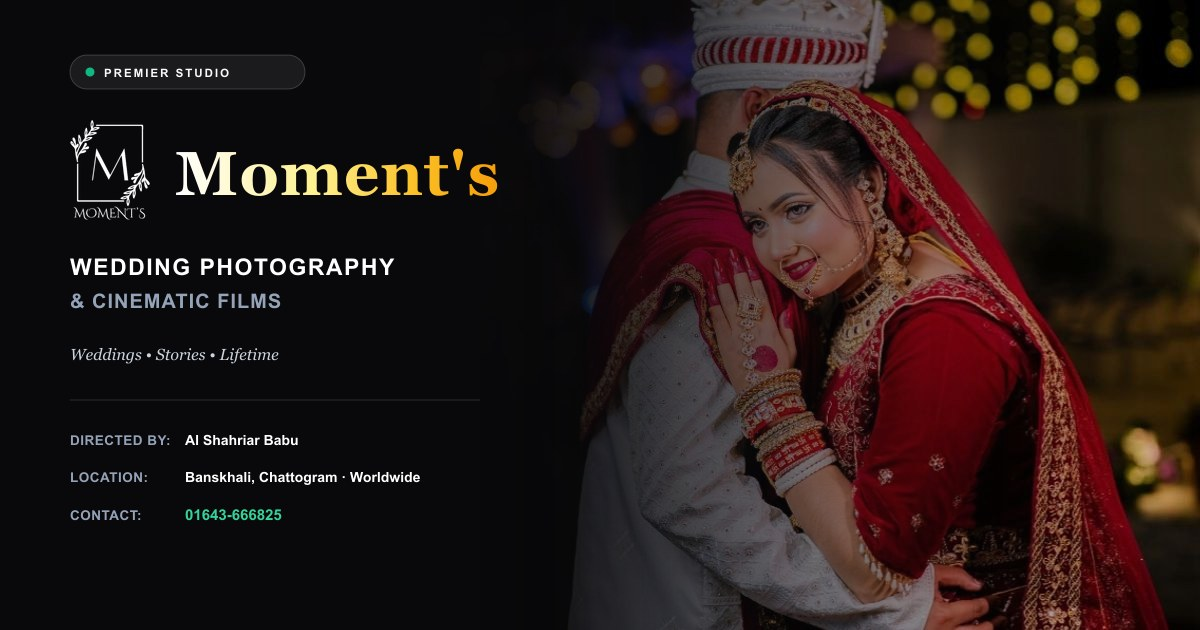
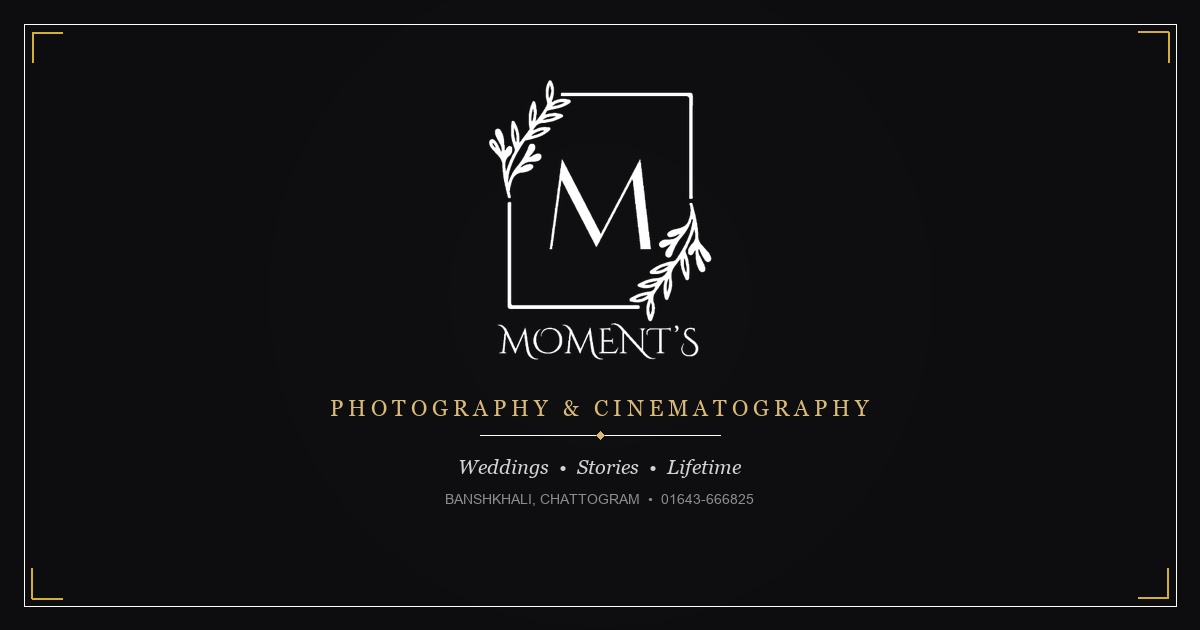
upd

diff --git a/src/app/layout.tsx b/src/app/layout.tsx
@@ -24,7 +24,11 @@ const cormorant = Cormorant_Garamond({
   display: "swap",
 });
 
-const SITE_URL = "https://momentsphotography.com";
+const SITE_URL =
+  process.env.NEXT_PUBLIC_SITE_URL ||
+  process.env.URL ||
+  process.env.DEPLOY_PRIME_URL ||
+  "https://moments-by-babu.netlify.app";
 
 export const metadata: Metadata = {
   metadataBase: new URL(SITE_URL),
@@ -63,12 +67,11 @@ export const metadata: Metadata = {
   icons: {
     icon: [
       { url: "/favicon.ico?v=4", sizes: "any" },
-      { url: "/icon.png?v=4", type: "image/png" },
       { url: "/logo.png?v=4", type: "image/png" }
     ],
     shortcut: "/favicon.ico?v=4",
     apple: [
-      { url: "/apple-icon.png?v=4", sizes: "180x180", type: "image/png" }
+      { url: "/logo.png?v=4", sizes: "180x180", type: "image/png" }
     ],
   },
   openGraph: {
@@ -85,19 +88,19 @@ export const metadata: Metadata = {
         width: 1200,
         height: 630,
         type: "image/jpeg",
-        alt: "Moment's Photography & Cinematography Studio Banner with Logo and Signature Wedding Portrait",
+        alt: "Moment's Photography & Cinematography Studio Logo Banner",
       },
       {
         url: "/og-square.jpg",
-        width: 600,
-        height: 600,
+        width: 800,
+        height: 800,
         type: "image/jpeg",
-        alt: "Moment's Photography Logo and Couple Portrait",
+        alt: "Moment's Photography Official Brand Logo",
       },
       {
         url: "/logo.png",
-        width: 800,
-        height: 800,
+        width: 335,
+        height: 417,
         type: "image/png",
         alt: "Moment's Official Brand Logo",
       }

diff --git a/src/app/sitemap.ts b/src/app/sitemap.ts
@@ -1,7 +1,10 @@
 import { MetadataRoute } from "next";
 
 export default function sitemap(): MetadataRoute.Sitemap {
-  const baseUrl = "https://momentsphotography.com";
+  const baseUrl =
+    process.env.NEXT_PUBLIC_SITE_URL ||
+    process.env.URL ||
+    "https://moments-by-babu.netlify.app";
   const now = new Date();
 
   return [

diff --git a/src/app/robots.ts b/src/app/robots.ts
@@ -6,6 +6,6 @@ export default function robots(): MetadataRoute.Robots {
       userAgent: "*",
       allow: "/",
     },
-    sitemap: "https://momentsphotography.com/sitemap.xml",
+    sitemap: "https://moments-by-babu.netlify.app/sitemap.xml",
   };
 }

diff --git a/scratch/generate_og_images.py b/scratch/generate_og_images.py
@@ -1,0 +1,129 @@
+import os
+from PIL import Image, ImageDraw, ImageFont, ImageFilter
+
+def create_og_banner(output_path, is_square=False):
+    width, height = (800, 800) if is_square else (1200, 630)
+    
+    # Base luxury dark gradient background
+    base = Image.new("RGBA", (width, height), (13, 13, 16, 255))
+    
+    # Add subtle warm radial glow in the center
+    glow = Image.new("RGBA", (width, height), (0, 0, 0, 0))
+    glow_draw = ImageDraw.Draw(glow)
+    center_x, center_y = width // 2, height // 2 - (20 if not is_square else 30)
+    max_radius = int(min(width, height) * 0.7)
+    
+    # Draw radial gradient rings
+    for r in range(max_radius, 0, -10):
+        alpha = int(35 * (1 - r / max_radius))
+        glow_draw.ellipse(
+            [center_x - r, center_y - r, center_x + r, center_y + r],
+            fill=(30, 26, 22, alpha)
+        )
+    
+    base = Image.alpha_composite(base, glow)
+    draw = ImageDraw.Draw(base)
+    
+    # Subtle elegant border
+    inset = 24 if not is_square else 28
+    draw.rectangle(
+        [inset, inset, width - inset, height - inset],
+        outline=(255, 255, 255, 22),
+        width=1
+    )
+    
+    # Inner gold corner accents
+    corner_len = 30
+    gold_color = (212, 175, 55, 140)
+    c_inset = inset + 8
+    # Top Left
+    draw.line([(c_inset, c_inset), (c_inset + corner_len, c_inset)], fill=gold_color, width=2)
+    draw.line([(c_inset, c_inset), (c_inset, c_inset + corner_len)], fill=gold_color, width=2)
+    # Top Right
+    draw.line([(width - c_inset, c_inset), (width - c_inset - corner_len, c_inset)], fill=gold_color, width=2)
+    draw.line([(width - c_inset, c_inset), (width - c_inset, c_inset + corner_len)], fill=gold_color, width=2)
+    # Bottom Left
+    draw.line([(c_inset, height - c_inset), (c_inset + corner_len, height - c_inset)], fill=gold_color, width=2)
+    draw.line([(c_inset, height - c_inset), (c_inset, height - c_inset - corner_len)], fill=gold_color, width=2)
+    # Bottom Right
+    draw.line([(width - c_inset, height - c_inset), (width - c_inset - corner_len, height - c_inset)], fill=gold_color, width=2)
+    draw.line([(width - c_inset, height - c_inset), (width - c_inset, height - c_inset - corner_len)], fill=gold_color, width=2)
+    
+    # Load white logo
+    logo = Image.open("public/logo-white.png").convert("RGBA")
+    
+    # Scale logo appropriately
+    if is_square:
+        target_h = 360
+    else:
+        target_h = 280
+        
+    aspect = logo.width / logo.height
+    target_w = int(target_h * aspect)
+    logo_resized = logo.resize((target_w, target_h), Image.Resampling.LANCZOS)
+    
+    # Paste logo in upper-center
+    if is_square:
+        logo_y = 120
+    else:
+        logo_y = 80
+        
+    logo_x = (width - target_w) // 2
+    base.paste(logo_resized, (logo_x, logo_y), logo_resized)
+    
+    # Load fonts
+    try:
+        font_sub = ImageFont.truetype("C:/Windows/Fonts/georgia.ttf", 22 if not is_square else 26)
+        font_sub_italic = ImageFont.truetype("C:/Windows/Fonts/georgiai.ttf", 20 if not is_square else 24)
+        font_tagline = ImageFont.truetype("C:/Windows/Fonts/arial.ttf", 14 if not is_square else 16)
+    except:
+        font_sub = ImageFont.load_default()
+        font_sub_italic = ImageFont.load_default()
+        font_tagline = ImageFont.load_default()
+        
+    # Text line 1: "PHOTOGRAPHY & CINEMATOGRAPHY"
+    text1 = "P H O T O G R A P H Y   &   C I N E M A T O G R A P H Y"
+    bbox1 = draw.textbbox((0, 0), text1, font=font_sub)
+    w1 = bbox1[2] - bbox1[0]
+    y1 = logo_y + target_h + (35 if not is_square else 45)
+    draw.text(((width - w1) // 2, y1), text1, fill=(218, 185, 120, 255), font=font_sub)
+    
+    # Subtle dividing ornament / line
+    line_y = y1 + (40 if not is_square else 48)
+    line_w = 120
+    draw.line([(width // 2 - line_w, line_y), (width // 2 + line_w, line_y)], fill=(255, 255, 255, 40), width=1)
+    # Small diamond in center of line
+    d_size = 4
+    draw.polygon([
+        (width // 2, line_y - d_size),
+        (width // 2 + d_size, line_y),
+        (width // 2, line_y + d_size),
+        (width // 2 - d_size, line_y)
+    ], fill=(218, 185, 120, 220))
+    
+    # Text line 2: "Weddings • Stories • Lifetime"
+    text2 = "Weddings  •  Stories  •  Lifetime"
+    bbox2 = draw.textbbox((0, 0), text2, font=font_sub_italic)
+    w2 = bbox2[2] - bbox2[0]
+    y2 = line_y + (20 if not is_square else 24)
+    draw.text(((width - w2) // 2, y2), text2, fill=(210, 210, 215, 230), font=font_sub_italic)
+    
+    # Text line 3: Location & Contact
+    text3 = "BANSHKHALI, CHATTOGRAM  •  01643-666825"
+    bbox3 = draw.textbbox((0, 0), text3, font=font_tagline)
+    w3 = bbox3[2] - bbox3[0]
+    y3 = y2 + (36 if not is_square else 42)
+    draw.text(((width - w3) // 2, y3), text3, fill=(140, 140, 145, 180), font=font_tagline)
+    
+    # Convert RGBA to RGB for JPEG or save PNG
+    rgb_im = base.convert("RGB")
+    rgb_im.save(output_path, quality=95, optimize=True)
+    print(f"Saved {output_path} ({width}x{height})")
+
+if __name__ == "__main__":
+    os.makedirs("public", exist_ok=True)
+    create_og_banner("public/og-image.jpg", is_square=False)
+    create_og_banner("public/og-square.jpg", is_square=True)
+    create_og_banner("public/og-whatsapp.jpg", is_square=True)
+    # Also save PNG versions for Next.js App Router root
+    create_og_banner("public/opengraph-image.png", is_square=False)
